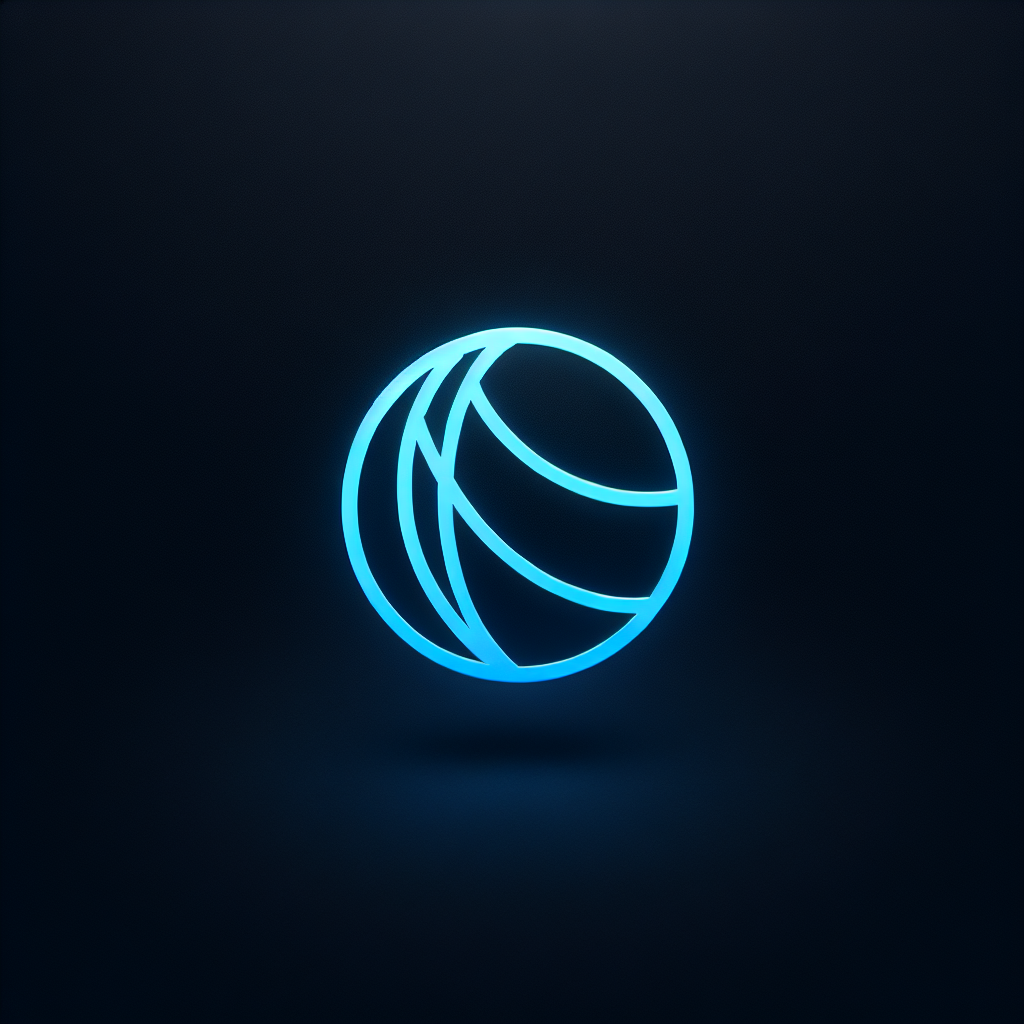
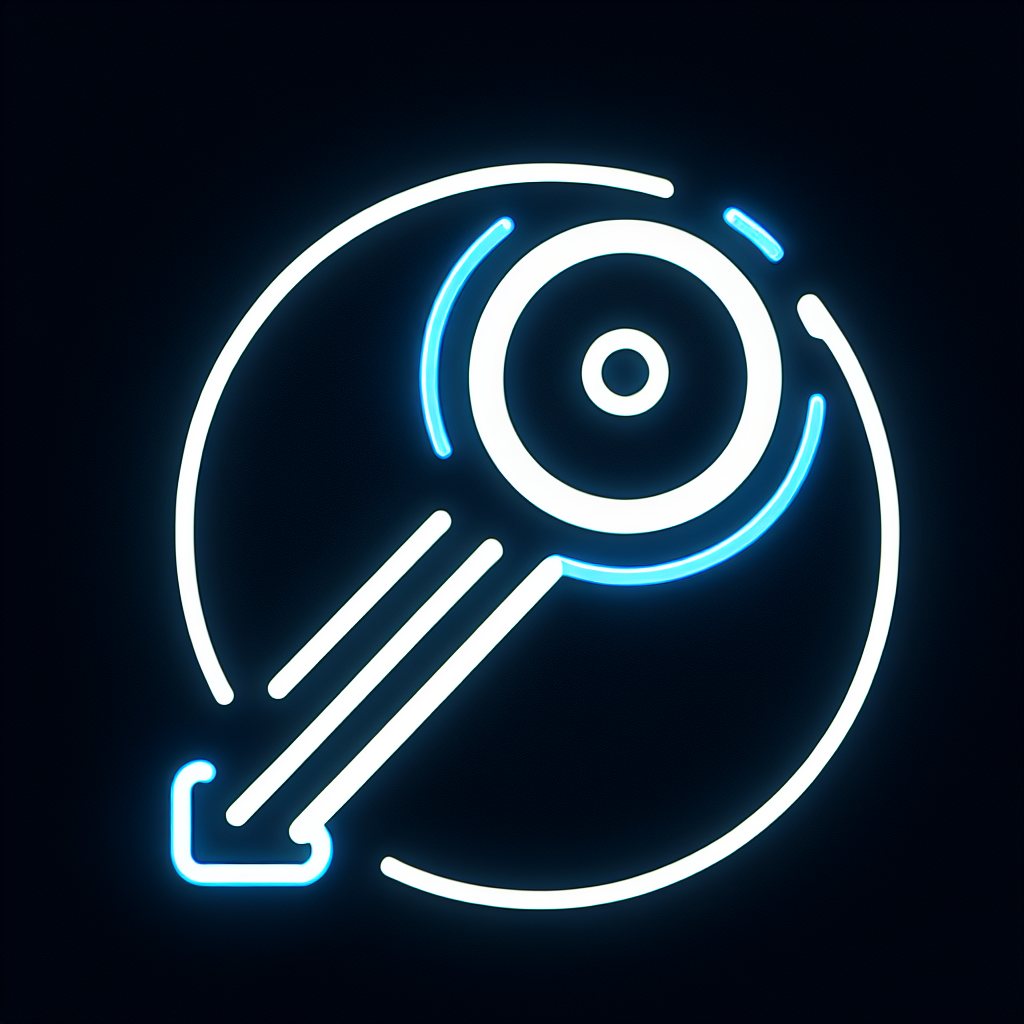
fix second round play issue

diff --git a/client/src/utils/gameLogic.ts b/client/src/utils/gameLogic.ts
@@ -141,20 +141,28 @@ export function declareHalfQuote(state: GameState, playerId: PlayerId): GameStat
   // Skip straight to trick play phase
   newState.currentPhase = "trick_play";
   
-  // Deal remaining cards
-  for (let i = 0; i < 4; i++) {
-    for (const pId of newState.playerOrder) {
-      const { dealt, remaining } = dealCards(newState.deck, 1);
-      newState.players[pId].hand.push(...dealt);
-      newState.deck = remaining;
-    }
+  // In half quote, we don't deal the remaining cards
+  // The player must win with just the 4 cards they have
+  
+  // Store the player's team
+  const quoteTeam = newState.players[playerId].team;
+  
+  // Find the teammate of the quote declarer
+  const teammateId = Object.values(newState.players).find(
+    p => p.id !== playerId && p.team === quoteTeam
+  )?.id;
+  
+  // Create a modified player order that skips the teammate
+  // For half quote, the teammate doesn't participate
+  if (teammateId) {
+    newState.playerOrder = newState.playerOrder.filter(id => id !== teammateId);
   }
   
   // The quote player goes first
   const quotePlayerIndex = newState.playerOrder.indexOf(playerId);
   newState.currentPlayerIndex = quotePlayerIndex;
   
-  newState.message = `${newState.players[playerId].name} declared Half Quote! They must win all tricks.`;
+  newState.message = `${newState.players[playerId].name} declared Half Quote! They must win all tricks with just 4 cards. Their teammate will not participate.`;
   
   return newState;
 }
@@ -250,17 +258,23 @@ export function passFullQuote(state: GameState, playerId: PlayerId): GameState {
   const newState = { ...state };
   
   const team = newState.players[playerId].team;
-  const otherTeamPlayers = newState.playerOrder.filter(
-    pid => newState.players[pid].team === team && pid !== playerId
+  
+  // Find all players on the same team who haven't had a turn yet
+  // Filter the player order starting from the current player to the end
+  const currentPlayerIdx = newState.playerOrder.indexOf(playerId);
+  const remainingPlayerOrder = [...newState.playerOrder.slice(currentPlayerIdx + 1), ...newState.playerOrder.slice(0, currentPlayerIdx)];
+  
+  // Find the next eligible player from the same team
+  const nextEligiblePlayer = remainingPlayerOrder.find(
+    pid => newState.players[pid].team === team
   );
   
-  // If there are other team members who can quote, move to them
-  if (otherTeamPlayers.length > 0) {
-    const nextQuotePlayer = otherTeamPlayers[0];
-    const nextPlayerIndex = newState.playerOrder.indexOf(nextQuotePlayer);
+  // If there's another eligible player on the same team, move to them
+  if (nextEligiblePlayer) {
+    const nextPlayerIndex = newState.playerOrder.indexOf(nextEligiblePlayer);
     newState.currentPlayerIndex = nextPlayerIndex;
     
-    newState.message = `${newState.players[nextQuotePlayer].name}'s turn to decide on Full Quote`;
+    newState.message = `${newState.players[nextEligiblePlayer].name}'s turn to decide on Full Quote`;
     return newState;
   }
   
@@ -352,10 +366,11 @@ export function playCard(state: GameState, playerId: PlayerId, card: Card): Game
   }
   
   // Move to next player
-  newState.currentPlayerIndex = (newState.currentPlayerIndex + 1) % 4;
+  newState.currentPlayerIndex = (newState.currentPlayerIndex + 1) % newState.playerOrder.length;
   
-  // Check if trick is complete
-  if (newState.currentTrick.cards.length === 4) {
+  // Check if trick is complete - in Half Quote we have 3 players, otherwise 4
+  const playersInGame = newState.playerOrder.length;
+  if (newState.currentTrick.cards.length === playersInGame) {
     // Change to trick result phase instead of completing trick immediately
     newState.currentPhase = "trick_result";
     
@@ -458,13 +473,29 @@ export function completeTrick(state: GameState): GameState {
   const winnerIndex = newState.playerOrder.indexOf(winningCard.playerId);
   newState.currentPlayerIndex = winnerIndex;
   
+  // For half quote, we consider the round complete after 4 tricks
+  // For regular play, after 8 tricks
+  const tricksNeeded = newState.quoteType === "half" ? 4 : TOTAL_TRICKS_PER_ROUND;
+  
   // Check if round is complete
-  if (newState.completedTricks.length === TOTAL_TRICKS_PER_ROUND) {
+  if (newState.completedTricks.length === tricksNeeded) {
     return endRound(newState);
   }
   
+  // Set the game phase back to trick_play so players can continue playing
+  newState.currentPhase = "trick_play";
+  
   const nextPlayer = newState.players[newState.playerOrder[winnerIndex]];
-  newState.message = `${nextPlayer.name} won the trick! Their turn to play next.`;
+  const winnerName = newState.players[trick.winner].name;
+  
+  // Update message based on who won and who plays next
+  if (trick.winner === "player") {
+    newState.message = `You won the trick! Your turn to play next.`;
+  } else if (newState.playerOrder[winnerIndex] === "player") {
+    newState.message = `${winnerName} won the trick! Your turn to play next.`;
+  } else {
+    newState.message = `${winnerName} won the trick! ${nextPlayer.name}'s turn to play next.`;
+  }
   
   return newState;
 }
@@ -480,7 +511,9 @@ export function endRound(state: GameState): GameState {
     trick => trick.winner && newState.players[trick.winner].team === "team1"
   ).length;
   
-  const team2Tricks = TOTAL_TRICKS_PER_ROUND - team1Tricks;
+  // For half quote, the total tricks is 4, otherwise it's 8
+  const totalTricks = newState.quoteType === "half" ? 4 : TOTAL_TRICKS_PER_ROUND;
+  const team2Tricks = totalTricks - team1Tricks;
   
   let team1Points = 0;
   let team2Points = 0;
@@ -494,7 +527,7 @@ export function endRound(state: GameState): GameState {
     const quoteTricks = quoteTeam === "team1" ? team1Tricks : team2Tricks;
     
     // For both half and full quote, player must win all tricks
-    if (quoteTricks === TOTAL_TRICKS_PER_ROUND) {
+    if (quoteTricks === totalTricks) {
       // Quote succeeded
       if (quoteTeam === "team1") {
         team1Points = QUOTE_POINTS;
@@ -514,10 +547,10 @@ export function endRound(state: GameState): GameState {
   // Normal scoring if no quote
   else {
     // Check for Kapoothi (one team won all tricks)
-    if (team1Tricks === TOTAL_TRICKS_PER_ROUND) {
+    if (team1Tricks === totalTricks) {
       team1Points = KAPOOTHI_POINTS;
       wasKapoothi = true;
-    } else if (team2Tricks === TOTAL_TRICKS_PER_ROUND) {
+    } else if (team2Tricks === totalTricks) {
       team2Points = KAPOOTHI_POINTS;
       wasKapoothi = true;
     } 
@@ -560,7 +593,7 @@ export function endRound(state: GameState): GameState {
       resultMessage = `${quoteTeamName} failed the ${quoteTypeStr} Quote! Opponents get +${QUOTE_POINTS} points`;
     }
   } else if (wasKapoothi) {
-    const kapTeam = team1Tricks === TOTAL_TRICKS_PER_ROUND ? "Your team" : "Opponent team";
+    const kapTeam = team1Tricks === totalTricks ? "Your team" : "Opponent team";
     resultMessage = `${kapTeam} won all tricks (Kapoothi)! +${KAPOOTHI_POINTS} points`;
   } else {
     const winTeam = team1WinsRound ? "Your team" : "Opponent team";
@@ -577,12 +610,35 @@ export function endRound(state: GameState): GameState {
  * Starts a new round of the game
  */
 export function startNewRound(state: GameState): GameState {
-  // Keep scores and round history, reset everything else
-  const newState = {
-    ...initializeGameState(),
-    scores: { ...state.scores },
-    roundHistory: [...state.roundHistory],
+  // Create a new game state
+  const newState = initializeGameState();
+  
+  // Keep scores and round history from the previous state
+  newState.scores = { ...state.scores };
+  newState.roundHistory = [...state.roundHistory];
+  
+  // Make sure we're using the standard player order regardless of any changes in the previous round
+  newState.playerOrder = ["player", "bot1", "bot2", "bot3"];
+  newState.currentPlayerIndex = 0;
+  
+  // Reset phase-specific variables
+  newState.trumpDecider = null;
+  newState.trump = null;
+  newState.quoteType = "none";
+  newState.quotePlayer = null;
+  newState.halfQuotePossible = true;
+  newState.fullQuotePossible = true;
+  
+  // Clear any exchanged cards from previous round
+  newState.exchangedCards = {
+    player: [],
+    bot1: [],
+    bot2: [],
+    bot3: [],
   };
+  
+  // Set starting message
+  newState.message = "Starting new round... Dealing cards";
   
   // Deal initial cards
   return dealInitialCards(newState);